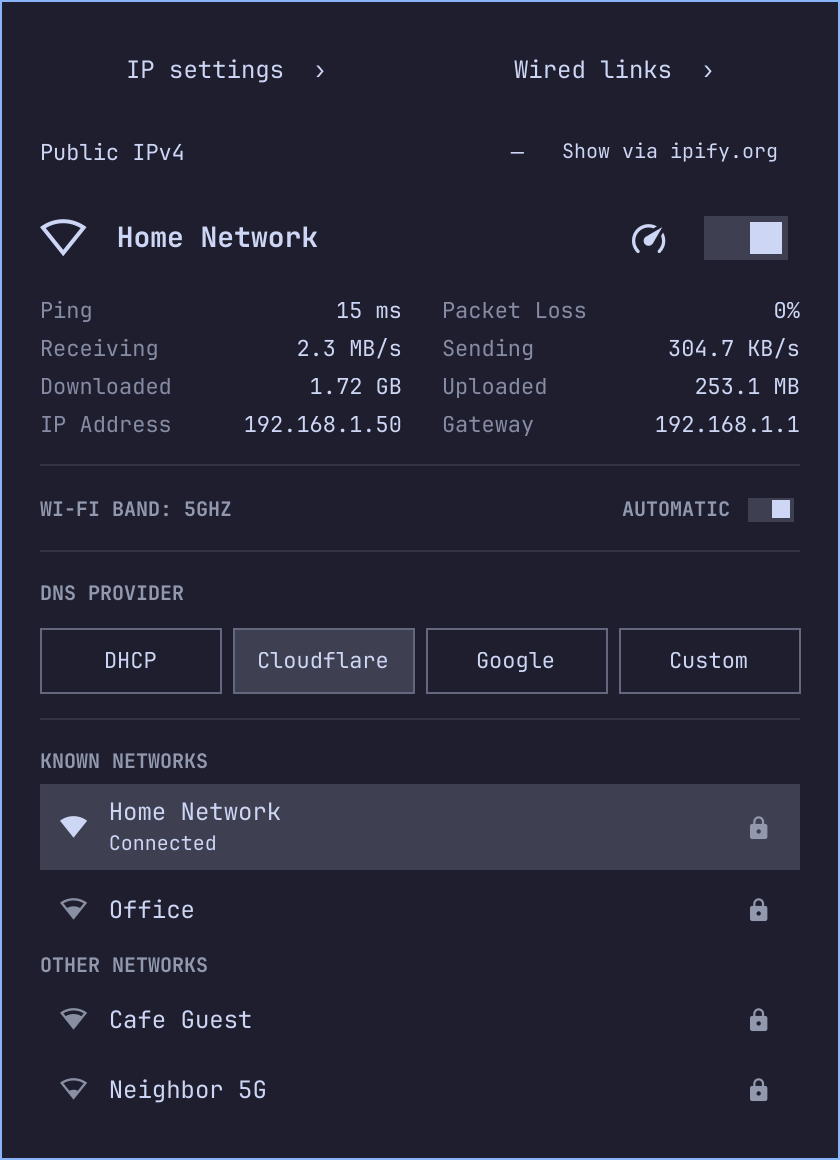
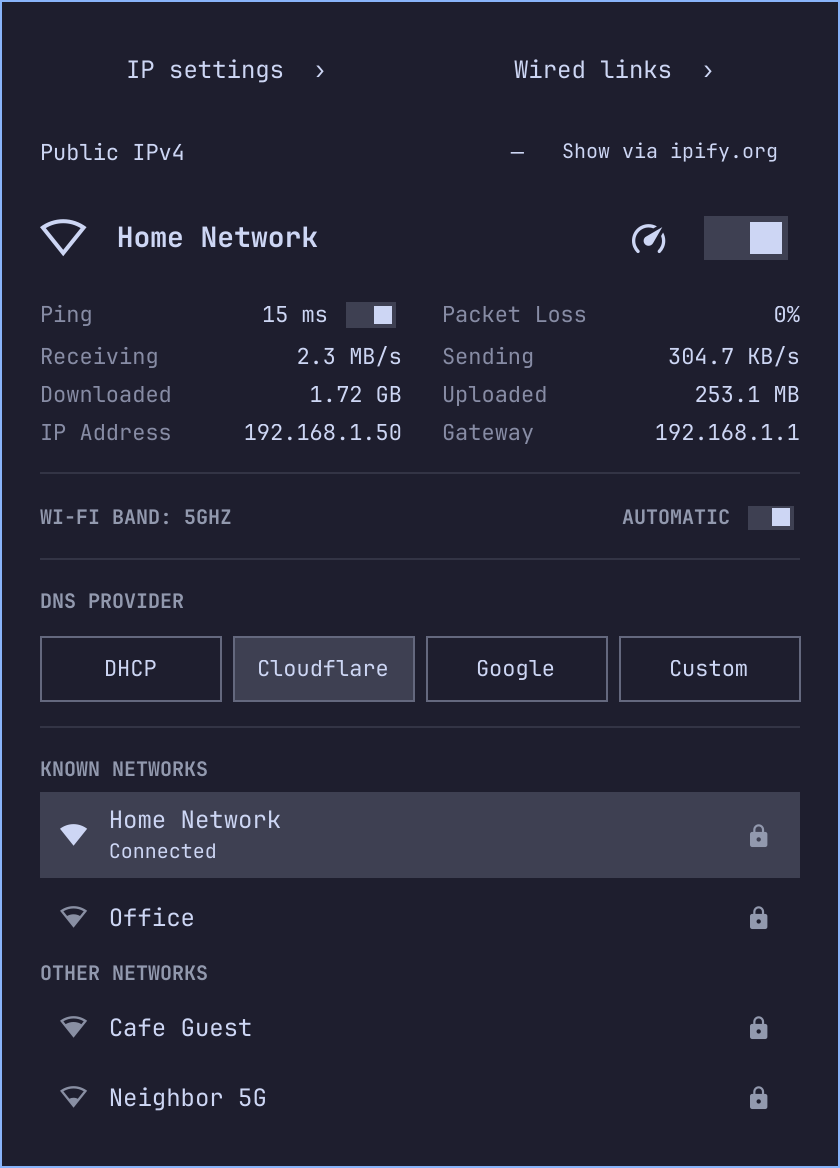
Make ping opt-in, off by default
Each details poll ran omarchy-network-status --verbose, which pings the gateway and 1.1.1.1 every 1.5 s while the panel is open. A switch beside Ping now turns that on. With it off, settings.py details reads the same fields from ip, /sys and iw without sending anything. The README lists every network request Netdeck can make. Release 1.1.0.

diff --git a/Panel.qml b/Panel.qml
@@ -141,10 +141,31 @@ Panel {
   // Hide links with no cable or peer, so only the live ones show. Kept in
   // $XDG_STATE_HOME/omarchy/netdeck.json so it survives a shell restart.
   property bool wiredConnectedOnly: false
+  // Off by default: when on, every details poll runs `omarchy-network-status
+  // --verbose`, which pings the gateway and 1.1.1.1. When off, the same fields
+  // come from `settings.py details`, which sends nothing. Saved with
+  // wiredConnectedOnly.
+  property bool pingEnabled: false
   readonly property string stateDir: (Quickshell.env("XDG_STATE_HOME") || Quickshell.env("HOME") + "/.local/state") + "/omarchy"
+  function saveState() {
+    stateFile.setText(JSON.stringify({ wiredConnectedOnly: wiredConnectedOnly, pingEnabled: pingEnabled }) + "\n")
+  }
   function setWiredConnectedOnly(on) {
     wiredConnectedOnly = on
-    stateFile.setText(JSON.stringify({ wiredConnectedOnly: on }) + "\n")
+    saveState()
+  }
+  function setPingEnabled(on) {
+    pingEnabled = on
+    saveState()
+    clearPingSamples()
+  }
+  function clearPingSamples() {
+    pingIface = ""
+    routerPingSamples = []
+    internetPingSamples = []
+    routerPingLatency = -1
+    internetPingLatency = -1
+    internetPingPacketLoss = 0
   }
   Process {
     id: stateDirProc
@@ -157,7 +178,11 @@ Panel {
     atomicWrites: true
     printErrors: false
     onLoaded: {
-      try { root.wiredConnectedOnly = JSON.parse(text()).wiredConnectedOnly === true } catch (e) {}
+      try {
+        var saved = JSON.parse(text())
+        root.wiredConnectedOnly = saved.wiredConnectedOnly === true
+        root.pingEnabled = saved.pingEnabled === true
+      } catch (e) {}
     }
   }
   readonly property var wiredShown: wiredConnectedOnly ? wiredLinks.filter(function(l) { return l.connected }) : wiredLinks
@@ -531,12 +556,7 @@ Panel {
       prevSampleTime = 0
       downloadRate = 0
       uploadRate = 0
-      pingIface = ""
-      routerPingSamples = []
-      internetPingSamples = []
-      routerPingLatency = -1
-      internetPingLatency = -1
-      internetPingPacketLoss = 0
+      clearPingSamples()
       setScannerEnabled(false)
     }
   }
@@ -712,8 +732,14 @@ Panel {
     return Model.headerDetail(info)
   }
 
+  // The helper prints tab-separated lines; `settings.py details` prints JSON.
   function updateDetails(raw) {
-    var next = Model.parseKeyValue(raw)
+    var next = {}
+    if (String(raw).charAt(0) === "{") {
+      try { next = JSON.parse(raw) } catch (e) {}
+      if (next.error) next = {}
+      if (next.ssid !== undefined) next.ssid = Model.decodeIwSsid(next.ssid)
+    } else next = Model.parseKeyValue(raw)
 
     // A band change tears the link down and brings it back, and the status
     // command reports nothing at all while there is no route. Publishing that
@@ -1016,7 +1042,9 @@ Panel {
   // Pulls everything we want about the active route's interface in one shot.
   Process {
     id: detailsProc
-    command: ["omarchy-network-status", "--verbose"]
+    command: root.pingEnabled
+      ? ["omarchy-network-status", "--verbose"]
+      : ["python3", Qt.resolvedUrl("settings.py").toString().replace("file://", ""), "details"]
     stdout: StdioCollector {
       waitForEnd: true
       onStreamFinished: root.updateDetails(text)
@@ -1806,13 +1834,31 @@ Panel {
           // them down. They now hold their place and read "--" until there is
           // a sample.
           InfoLabel { text: "Ping" }
-          DetailValue {
-            text: root.formatPingLatency(root.internetPingLatency)
-            color: root.internetPingPacketLoss > 0 ? root.bar.urgent : root.bar.foreground
+          RowLayout {
+            Layout.fillWidth: true
+            spacing: Style.space(6)
+            DetailValue {
+              text: root.pingEnabled ? root.formatPingLatency(root.internetPingLatency) : "Off"
+              color: root.internetPingPacketLoss > 0 ? root.bar.urgent : root.bar.foreground
+            }
+            ToggleSwitch {
+              id: pingSwitch
+              trackHeight: Math.round(Style.font.bodySmall * 1.2)
+              cursorPad: Style.space(3)
+              Layout.alignment: Qt.AlignVCenter
+              checked: root.pingEnabled
+              foreground: root.bar.foreground
+              onToggled: root.setPingEnabled(!root.pingEnabled)
+              PanelToolTip {
+                visible: pingSwitch.containsMouse
+                text: "Ping your gateway and 1.1.1.1 every 1.5 s while this panel is open"
+                fontFamily: root.bar.fontFamily
+              }
+            }
           }
           InfoLabel { text: "Packet Loss" }
           DetailValue {
-            text: root.formatPacketLoss(root.internetPingPacketLoss)
+            text: root.pingEnabled ? root.formatPacketLoss(root.internetPingPacketLoss) : "Off"
             color: root.internetPingPacketLoss > 0 ? root.bar.urgent : root.bar.foreground
           }
 

diff --git a/settings.py b/settings.py
@@ -1,5 +1,6 @@
 import ipaddress
 import json
+import os
 import subprocess
 import sys
 import urllib.error
@@ -38,6 +39,57 @@ def sysfs(dev, name):
     except OSError:
         return ''
     return '' if value.startswith('-') else value
+
+def output(*args):
+    """stdout of a read-only command, or '' when it is missing or fails."""
+    try:
+        p = subprocess.run(list(args), capture_output=True, text=True, timeout=5)
+    except (OSError, subprocess.TimeoutExpired):
+        return ''
+    return p.stdout if p.returncode == 0 else ''
+
+def link_details():
+    """The fields `omarchy-network-status --verbose` reports, without its two
+    pings. `ip route get` only reads the local routing table, so nothing here
+    sends a packet. Read-only."""
+    try:
+        route = json.loads(output('ip', '-j', 'route', 'get', '1.1.1.1') or '[]')[0]
+    except (ValueError, IndexError):
+        return {}
+    dev = route.get('dev', '')
+    if not dev:
+        return {}
+    try:
+        addrs = json.loads(output('ip', '-j', 'addr', 'show', dev) or '[]')[0].get('addr_info', [])
+    except (ValueError, IndexError):
+        addrs = []
+    prefix = next((str(a.get('prefixlen', '')) for a in addrs if a.get('family') == 'inet'), '')
+    out = {'iface': dev, 'ip': route.get('prefsrc', ''), 'prefix': prefix,
+           'gateway': route.get('gateway', '')}
+    for name in ('rx_bytes', 'tx_bytes'):
+        value = sysfs(dev, 'statistics/' + name)
+        if value:
+            out[name] = value
+    if not os.path.isdir(f'/sys/class/net/{dev}/wireless'):
+        out['type'] = 'ethernet'
+        for name in ('speed', 'duplex'):
+            value = sysfs(dev, name)
+            if value:
+                out[name] = value
+        return out
+    out['type'] = 'wifi'
+    link = output('iw', 'dev', dev, 'link')
+    if link.strip():
+        fields = {}
+        for line in link.splitlines():
+            key, sep, value = line.strip().partition(': ')
+            if sep and key not in fields:
+                fields[key] = value
+        out['ssid'] = fields.get('SSID', '')
+        out['signal_dbm'] = fields.get('signal', '').split(' ')[0]
+        out['freq'] = fields.get('freq', '').split(' ')[0]
+        out['bitrate'] = ' '.join(fields.get('tx bitrate', '').split(' ')[:2])
+    return out
 
 def wired_links():
     """Every Ethernet device, Thunderbolt networking included, with its live
@@ -110,7 +162,7 @@ def current_static(uuid):
 
 def public_ip():
     request = urllib.request.Request('https://api.ipify.org?format=json',
-                                     headers={'User-Agent': 'Netdeck/1.0.0'})
+                                     headers={'User-Agent': 'Netdeck/1.1.0'})
     opener = urllib.request.build_opener(NoRedirectHandler)
     with opener.open(request, timeout=8) as response:
         data = json.loads(response.read(1024))
@@ -135,6 +187,8 @@ def main():
         return rename(sys.argv[2], sys.argv[3])
     if action == 'wired':
         return wired_links()
+    if action == 'details':
+        return link_details()
     if action == 'current':
         return current_static(sys.argv[2])
     if action == 'save':

diff --git a/test/settings.test.py b/test/settings.test.py
@@ -258,6 +258,45 @@ class RenameTests(unittest.TestCase):
         self.assertEqual(self.modify(fake), [])
 
 
+class DetailsTests(unittest.TestCase):
+    """`details` stands in for `omarchy-network-status --verbose` when pings
+    are off, so it must report the same fields and never run ping."""
+
+    ROUTE = json.dumps([{'dev': 'wlan0', 'gateway': '192.168.1.1', 'prefsrc': '192.168.1.50'}])
+    ADDR = json.dumps([{'addr_info': [{'family': 'inet6', 'prefixlen': 64},
+                                      {'family': 'inet', 'prefixlen': 24}]}])
+    IW = ('Connected to aa:bb:cc:dd:ee:ff (on wlan0)\n'
+          '\tSSID: Caf\\xc3\\xa9\n\tfreq: 5180.0\n\tsignal: -48 dBm\n'
+          '\ttx bitrate: 866.7 MBit/s VHT-MCS 9\n\trx bitrate: 650.0 MBit/s\n')
+    SYSFS = {'statistics/rx_bytes': '100', 'statistics/tx_bytes': '200',
+             'speed': '2500', 'duplex': 'full'}
+
+    def details(self, responses, wireless):
+        fake = FakeNmcli(responses)
+        with mock.patch.object(settings.subprocess, 'run', fake), \
+                mock.patch.object(settings, 'sysfs', lambda dev, name: self.SYSFS.get(name, '')), \
+                mock.patch.object(settings.os.path, 'isdir', lambda path: wireless):
+            return settings.link_details(), fake
+
+    def test_reports_wifi_fields_without_pinging(self):
+        result, fake = self.details({'ip -j route get': self.ROUTE, 'ip -j addr show': self.ADDR,
+                                     'iw dev wlan0 link': self.IW}, wireless=True)
+        self.assertEqual(result, {'iface': 'wlan0', 'ip': '192.168.1.50', 'prefix': '24',
+                                  'gateway': '192.168.1.1', 'rx_bytes': '100', 'tx_bytes': '200',
+                                  'type': 'wifi', 'ssid': 'Caf\\xc3\\xa9', 'signal_dbm': '-48',
+                                  'freq': '5180.0', 'bitrate': '866.7 MBit/s'})
+        self.assertNotIn('ping', {args[0] for args in fake.calls})
+
+    def test_reports_ethernet_speed_and_duplex(self):
+        result, _ = self.details({'ip -j route get': self.ROUTE, 'ip -j addr show': self.ADDR}, wireless=False)
+        self.assertEqual(result['type'], 'ethernet')
+        self.assertEqual((result['speed'], result['duplex']), ('2500', 'full'))
+
+    def test_no_route_reports_nothing(self):
+        result, _ = self.details({'ip -j route get': ValueError('unreachable')}, wireless=False)
+        self.assertEqual(result, {})
+
+
 class PublicIpTests(unittest.TestCase):
     def test_public_ip_validates_the_address(self):
         class FakeResponse:

diff --git a/tools/render-previews.py b/tools/render-previews.py
@@ -164,6 +164,7 @@ ShellRoot {
     plugin.bandCurrent = "5";
     plugin.bandSelected = "auto";
     plugin.bandAvailable = ["2.4", "5"];
+    plugin.pingEnabled = true;
     plugin.downloadRate = 2457600;
     plugin.uploadRate = 312000;
     plugin.routerPingLatency = 2.1;

diff --git a/README.md b/README.md
@@ -50,6 +50,10 @@ profile and switch it between DHCP and a fixed IPv4 address, gateway and DNS.
 [ipify.org](https://api.ipify.org), only when you click the button. The button
 names the service, because the lookup is a request to a third party.
 
+**Ping, opt-in**: the switch beside *Ping* turns latency and packet loss on.
+It is off by default and remembered in `netdeck.json`. See
+[Network access](#network-access) for what it sends.
+
 ## Requirements
 
 - Omarchy with the Quickshell shell (Quattro)
@@ -57,7 +61,25 @@ names the service, because the lookup is a request to a third party.
 - Python 3 (standard library only)
 - `bash`, `ip` and `iw`, which the stock widget already uses
 
-No background service and no network access except the public IPv4 lookup.
+No background service. See [Network access](#network-access) for the only
+requests it makes.
+
+## Network access
+
+Netdeck sends nothing on its own. It only reaches the network after you choose
+to:
+
+| What | Sends | When |
+|---|---|---|
+| *Show via ipify.org* | One HTTPS request to `api.ipify.org` | Each click |
+| *Ping* switch | One ICMP echo to your gateway and one to `1.1.1.1` | Every 1.5 s while the panel is open and the switch is on |
+| Speedometer button | Whatever Omarchy's own `omarchy.speedtest` panel does | When you click it and start a test there |
+
+The pings come from Omarchy's `omarchy-network-status --verbose`, the same
+command the stock widget runs every 1.5 s. With the switch off, Netdeck reads
+the interface, address, gateway, byte counts and link details itself
+(`settings.py details`). It uses `ip route get`, which only reads the local
+routing table, plus `/sys` and `iw`, so no packet leaves the machine.
 
 ## Install
 
@@ -104,7 +126,8 @@ rm -f ~/.local/state/omarchy/netdeck.json
 from the `Quickshell.Networking` types the stock widget already uses.
 
 Everything that talks to NetworkManager goes through `settings.py`. It takes
-one action (`public`, `list`, `read`, `current`, `save`, `wired` or `rename`),
+one action (`public`, `list`, `read`, `current`, `save`, `wired`, `rename` or
+`details`),
 prints one JSON object, and reports errors as `{"error": "..."}`. It calls
 `nmcli` with argument lists, never through a shell.
 
@@ -115,7 +138,7 @@ What it can change, and the checks before it does:
   profile type. Going back to DHCP clears the static address and gateway.
 - `rename` changes only the profile name. It refuses empty names, control
   characters, names over 64 characters, and a name another connection uses.
-- `wired` only reads.
+- `wired` and `details` only read.
 
 Wi-Fi passphrases never reach `settings.py`: the stock code passes them on
 stdin to `nmcli`, because command-line arguments are visible in `/proc`.

diff --git a/CHANGELOG.md b/CHANGELOG.md
@@ -1,5 +1,14 @@
 # Changelog
 
+## 1.1.0
+
+- Ping is now opt-in, behind a switch beside the *Ping* value, and off by
+  default. The stock widget's `omarchy-network-status --verbose` pings your
+  gateway and 1.1.1.1 on every 1.5 s refresh. With the switch off, the panel
+  reads the same details through `settings.py details`, which sends nothing.
+  The choice is remembered in `netdeck.json`.
+- README: list every network request Netdeck can make, and when.
+
 ## 1.0.0
 
 - Released as Netdeck (`io.github.douglas.netdeck`), from Rohi Rikman's
